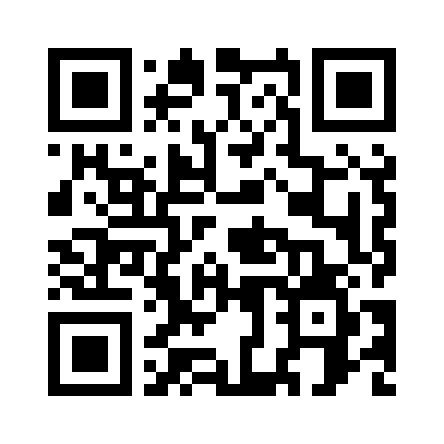
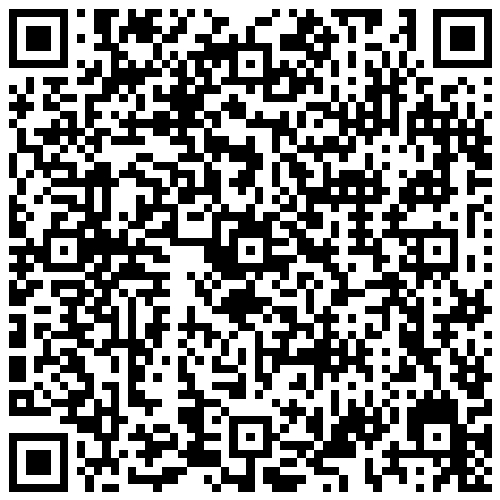
feat: 主页指向 aidabuli.podcast.xyz，简介精简，RSS 双栏目与二维码更新
- config.json: website -> https://aidabuli.podcast.xyz/；description 仅保留一句话
- columns 更名为 Brief: Energy Daily / Insight: Energy +AI，并补 title_prefix
- publish.py: 移除自动追加收听渠道文案；按栏目幂等标题前缀；item 增加 category / itunes:keywords
- site/index.html: 简介精简；二维码加版本号
- site/xiaoyuzhou-qr.jpg + assets/xiaoyuzhou-qr.jpg: 替换为新二维码
- data/episodes.json: 合并云端 12 期 + 本地 2 期 Insight，共 14 期

diff --git a/site/index.html b/site/index.html
@@ -4,7 +4,7 @@
 <meta charset="UTF-8">
 <meta name="viewport" content="width=device-width, initial-scale=1">
 <title>AI答不锂</title>
-<meta name="description" content="一个新能源十年从业者，一个AI-native博客。仅代表个人观点，不构成投资参考。">
+<meta name="description" content="一个新能源十年从业者，一个AI-native博客。">
 <link rel="icon" href="logo.jpg">
 <style>
   :root { color-scheme: light; }
@@ -111,9 +111,7 @@
       <img class="logo" src="logo.jpg" alt="AI答不锂 Logo">
       <h1>AI答不锂</h1>
 
-      <div class="intro">一个新能源十年从业者，一个AI-native博客。
-*仅代表个人观点，不构成投资参考。
-**博客内容均为人与AI协同创作，涉及引用均作标注，侵删。</div>
+      <div class="intro">一个新能源十年从业者，一个AI-native博客。</div>
 
       <p class="mail"><a href="mailto:aidabuli@agent.qq.com">aidabuli@agent.qq.com</a></p>
 
@@ -147,7 +145,7 @@
         </a>
       </div>
       <a class="qrbox" href="https://namecard.xiaoyuzhoufm.com/jagrf" target="_blank" rel="noopener">
-        <img src="https://aili-1500638180.cos.ap-shanghai.myqcloud.com/energy-daily/xiaoyuzhou-qr.jpg" alt="小宇宙 · AI答不锂 节目名片二维码">
+        <img src="https://aili-1500638180.cos.ap-shanghai.myqcloud.com/energy-daily/xiaoyuzhou-qr.jpg?v=20261017" alt="小宇宙 · AI答不锂 节目名片二维码">
         <div class="qt"><b>小宇宙 · 扫码收听</b>用微信或小宇宙 App 扫一扫，直达「AI答不锂」节目名片</div>
       </a>
 

diff --git a/scripts/publish.py b/scripts/publish.py
@@ -216,6 +216,28 @@ def hms(sec):
     return f"{sec // 60:02d}:{sec % 60:02d}"
 
 
+# 历史标题前缀（用于幂等剥离，避免重复叠加）
+_KNOWN_TITLE_PREFIXES = (
+    "Brief: Energy Daily · ",
+    "Insight: Energy +AI · ",
+    "Energy Daily · ",
+    "Energy +AI · ",
+)
+
+
+def display_title(raw, col_cfg):
+    """按栏目补全标题前缀（幂等）：先剥离历史前缀，再统一加当前栏目前缀。"""
+    t = (raw or "").strip()
+    for pfx in _KNOWN_TITLE_PREFIXES:
+        if t.startswith(pfx):
+            t = t[len(pfx):].strip()
+            break
+    prefix = col_cfg.get("title_prefix") or ""
+    if prefix and not prefix.endswith(" "):
+        prefix += " "
+    return f"{prefix}{t}" if prefix else t
+
+
 def render_rss(cfg, episodes, env):
     p = cfg["podcast"]
     base = public_base(cfg, env) or "https://example.com"
@@ -224,12 +246,8 @@ def render_rss(cfg, episodes, env):
     cover_url = f"{base}/{cfg['cos']['key_cover']}"
     site = p.get("website") or feed_url
     cols = cfg.get("columns", {}) or {}
-    # 小宇宙官方节目名片：注入到频道 description / itunes:summary，便于客户端/ RSS 读者直达
-    xy = p.get("xiaoyuzhou_namecard")
+    # 节目简介严格取自 config.podcast.description（不再自动追加收听渠道文案）
     desc = p.get("description", "")
-    if xy:
-        desc = desc + ("\n\n收听渠道：Apple Podcasts · 小宇宙（节目名片 %s）· 任意泛用型播客 App 直贴 RSS 订阅。"
-                       % xy)
 
     by_date = sorted(episodes, key=lambda e: e["date"], reverse=True)
     n = len(by_date)
@@ -244,12 +262,16 @@ def render_rss(cfg, episodes, env):
         sub = col_cfg.get("itunes_subcategory") or p.get("subcategory", "")
         item_cat = f'    <itunes:category text="{esc(cat)}"/>' + (
             f'\n      <itunes:category text="{esc(sub)}"/>' if sub else "")
+        disp_title = display_title(e.get("title", ""), col_cfg)
+        col_label = col_cfg.get("label") or col
         items.append(f"""    <item>
-      <title>{esc(e['title'])}</title>
+      <title>{esc(disp_title)}</title>
+      <category>{esc(col_label)}</category>
       <description><![CDATA[{e.get('summary', '')}]]></description>
       <itunes:summary><![CDATA[{e.get('summary', '')}]]></itunes:summary>
       <itunes:subtitle>{esc(e.get('subtitle', '新能源每日播报'))}</itunes:subtitle>
       <aili:column>{esc(col)}</aili:column>
+      <itunes:keywords>{esc(col_label)}</itunes:keywords>
       <enclosure url="{esc(rewrite_host(e['url'], origin, base))}" length="{e.get('length', 0)}" type="{guess_enclosure_type(e['url'])}"/>
       <itunes:image href="{esc(img)}"/>
       <guid isPermaLink="false">energydaily-{e['date']}-{esc(col)}</guid>
